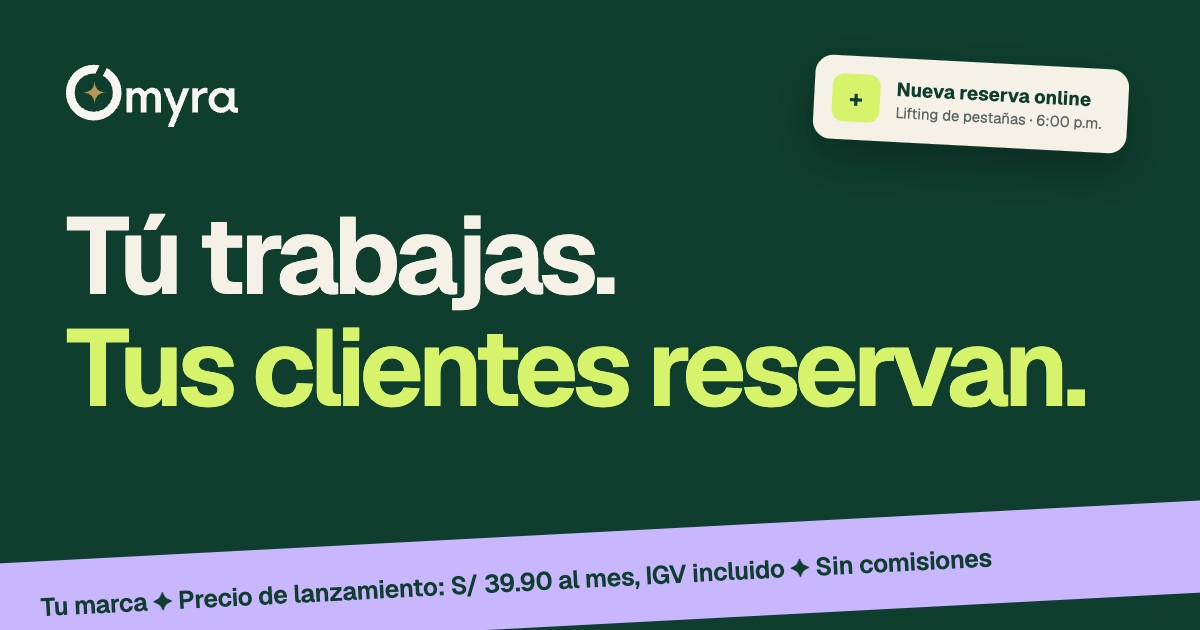
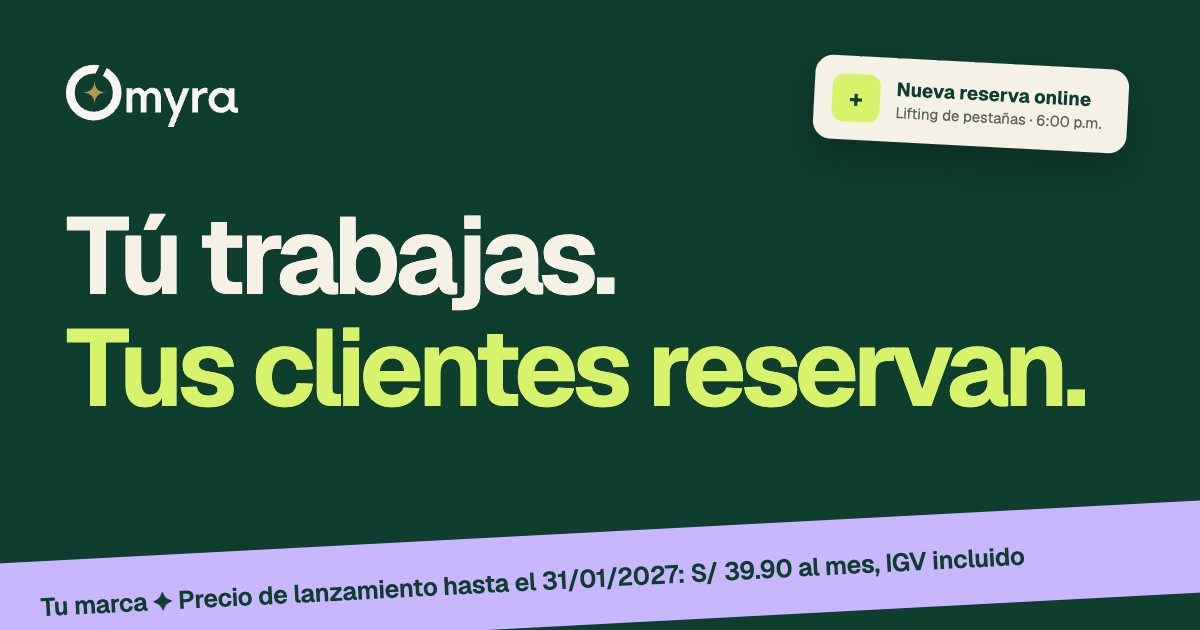
Precio de lanzamiento S/ 39.90 hasta el 31/01/2027; después S/ 59.90
- La fecha acompaña siempre a «Precio de lanzamiento» (cabecera, pie, inicio, precios, FAQ, metadatos e imagen para compartir).
- Condición: quien se suscriba antes mantiene S/ 39.90 mientras siga suscrito.
- La etiqueta del precio se parte en dos líneas en el celular y «S/» no se separa de la cifra.

Changed region(s): [[0.37, 0.8746, 0.8633, 0.9651]]

diff --git a/src/content/faq.ts b/src/content/faq.ts
@@ -4,7 +4,7 @@ export type Faq = { q: string; a: string };
 
 export const faq: Record<string, Faq> = {
   negocios: { q: '¿Para qué negocios es Omyra?', a: 'Para negocios que trabajan con citas: centros de estética, peluquerías, spas y centros de bienestar, fisioterapia, masajes, estudios de tatuaje, cuidado de mascotas y otros servicios que trabajan con citas. Te enseñamos en la demo cómo encaja con tu forma de trabajar.' },
-  precio: { q: '¿Cuánto cuesta?', a: `${pricing.full}. Un único plan con todas las funcionalidades, profesionales ilimitados y sin permanencia.` },
+  precio: { q: '¿Cuánto cuesta?', a: `${pricing.full}. Un único plan con todas las funcionalidades, profesionales ilimitados y sin permanencia. Después, ${pricing.regularPrice} ${pricing.period}; quien se suscriba antes del ${pricing.launchUntil} mantiene ${pricing.price} mientras siga suscrito.` },
   marketplace: { q: '¿Omyra es un marketplace?', a: 'No. Omyra no es un directorio donde los clientes comparan negocios. Cada negocio tiene su propia página de reservas, con su logo, sus colores y sus servicios, y la comparte en sus canales: Instagram, WhatsApp, Google o su web.' },
   comisiones: { q: '¿Cobran comisión por reserva o por pago?', a: 'No. Omyra no cobra comisiones por reserva ni por pago. Si activas el pago con tarjeta online, la pasarela de pago aplica sus propias tarifas por cada cobro.' },
   movil: { q: '¿Funciona en el celular?', a: 'Sí. Desde el celular consultas tu agenda, revisas tus clientes y recibes avisos de nuevas reservas. Funciona desde el navegador y puedes añadirla a la pantalla de inicio. La configuración completa del negocio se hace desde una computadora.' },

diff --git a/src/content/pricing.ts b/src/content/pricing.ts
@@ -7,12 +7,25 @@ export const pricing = {
   tax: 'IGV incluido',
   period: 'al mes',
   launch: 'Precio de lanzamiento',
+  // Fin del lanzamiento y precio después. Quien se suscribe antes mantiene el de lanzamiento.
+  launchUntil: '31/01/2027',
+  launchUntilISO: '2027-01-31',
+  regularAmount: '59.90',
+  get regularPrice() {
+    return `${this.currency}\u00a0${this.regularAmount}`; // espacio que no se parte: «S/» nunca queda solo al final de una línea
+  },
+  get launchShort() {
+    return `${this.launch} hasta el ${this.launchUntil}`;
+  },
+  get launchTerms() {
+    return `${this.launchShort}. Después, ${this.regularPrice} ${this.period}, ${this.tax}. Quien se suscriba antes mantiene ${this.price} mientras siga suscrito.`;
+  },
   // Precio con moneda delante, como se escribe en Perú: «S/ 39.90»
   get price() {
-    return `${this.currency} ${this.amount}`;
+    return `${this.currency}\u00a0${this.amount}`;
   },
   get full() {
-    return `${this.price} ${this.period}, ${this.tax} (${this.launch.toLowerCase()})`;
+    return `${this.price} ${this.period}, ${this.tax} (${this.launch.toLowerCase()} hasta el ${this.launchUntil})`;
   },
   included: [
     'Todas las funcionalidades',
